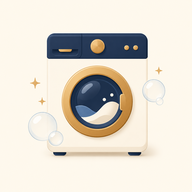
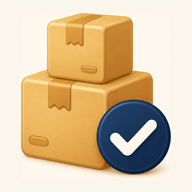
Add files via upload

diff --git a/index.html b/index.html
@@ -4,9 +4,27 @@
 <meta charset="utf-8">
 <meta name="viewport" content="width=device-width,initial-scale=1,viewport-fit=cover">
 <meta name="theme-color" content="#113D6C">
-<title>PLP Stock — เช็คสต๊อก</title>
+<title>Stock PLP — เช็คสต๊อก</title>
 <link rel="manifest" href="manifest.json">
-<link rel="apple-touch-icon" href="icon-192.png">
+<link rel="icon" type="image/png" sizes="32x32" href="favicon-32.png">
+<link rel="apple-touch-icon" sizes="180x180" href="apple-touch-icon.png">
+<meta name="apple-mobile-web-app-capable" content="yes">
+<meta name="apple-mobile-web-app-status-bar-style" content="black-translucent">
+<meta name="apple-mobile-web-app-title" content="Stock PLP">
+<meta name="mobile-web-app-capable" content="yes">
+<meta name="description" content="เช็คสต๊อก นับของ และทำใบสั่งซื้อ สำหรับร้านสาขาต่างๆ">
+<script>
+window.__pwaPrompt = null;
+window.addEventListener("beforeinstallprompt", function (e) {
+  e.preventDefault();
+  window.__pwaPrompt = e;
+  window.dispatchEvent(new Event("pwa-installable"));
+});
+window.addEventListener("appinstalled", function () {
+  window.__pwaPrompt = null;
+  window.dispatchEvent(new Event("pwa-installed"));
+});
+</script>
 <link href="https://fonts.googleapis.com/css2?family=Kanit:wght@300;400;500;600;700&display=swap" rel="stylesheet">
 <script src="https://www.gstatic.com/firebasejs/10.13.2/firebase-app-compat.js"></script>
 <script src="https://www.gstatic.com/firebasejs/10.13.2/firebase-auth-compat.js"></script>
@@ -85,7 +103,7 @@ input:focus,select:focus,textarea:focus{outline:2px solid var(--gold);outline-of
 
 <script type="text/babel" data-presets="react">
 /* ============================================================
-   PLP STOCK  ·  แอปเช็คสต๊อกหลายร้าน
+   STOCK PLP  ·  แอปเช็คสต๊อกหลายร้าน
    ค่า Firebase อยู่ในไฟล์ firebase-config.js (แยกไว้ต่างหาก)
    >> ห้ามใส่ค่า Firebase ในไฟล์นี้ <<
    อัปเดตแอป = ทับเฉพาะ index.html ค่า config จะไม่หาย
@@ -484,7 +502,12 @@ function App() {
   const [shopId, setShopId] = useState(LS.get("ps_shop") || "");
   const [role, setRole] = useState(LS.get("ps_role") || "staff");
   const [cfg, setCfg] = useState({ ownerPin:"1234" });
-  const [tab, setTab] = useState("stock");
+  const [tab, setTab] = useState(() => {
+    const t = new URLSearchParams(location.search).get("tab");
+    return ["stock","count","order","hist","setup"].includes(t) ? t : "stock";
+  });
+  const [canInstall, setCanInstall] = useState(!!window.__pwaPrompt);
+  const [hideInstall, setHideInstall] = useState(LS.get("ps_hideinstall") === "1");
 
   const [items, setItems] = useState([]);
   const [cats, setCats] = useState(DEFAULT_CATS);
@@ -513,6 +536,27 @@ function App() {
     const m = document.querySelector('meta[name="theme-color"]');
     if (m) m.setAttribute("content", c.head);
   }, [shop]);
+
+  /* ---- ปุ่มติดตั้งแอป ---- */
+  useEffect(() => {
+    const on = () => setCanInstall(true);
+    const off = () => { setCanInstall(false); setHideInstall(true); };
+    window.addEventListener("pwa-installable", on);
+    window.addEventListener("pwa-installed", off);
+    return () => { window.removeEventListener("pwa-installable", on); window.removeEventListener("pwa-installed", off); };
+  }, []);
+
+  const installApp = async () => {
+    const p = window.__pwaPrompt;
+    if (!p) {
+      alert("ติดตั้งเองได้เลย:\n\nAndroid Chrome → เมนู ⋮ → เพิ่มลงในหน้าจอหลัก\niPhone Safari → ปุ่มแชร์ ↑ → Add to Home Screen");
+      return;
+    }
+    p.prompt();
+    await p.userChoice;
+    window.__pwaPrompt = null;
+    setCanInstall(false);
+  };
 
   /* ---- boot ---- */
   useEffect(() => {
@@ -785,7 +829,13 @@ function App() {
     say("ใส่ในรายการสั่งของแล้ว");
   };
 
-  if (booting) return <div className="empty" style={{ paddingTop:120 }}>กำลังโหลด…</div>;
+  if (booting) return (
+    <div style={{ minHeight:"70vh", display:"flex", flexDirection:"column",
+      alignItems:"center", justifyContent:"center", gap:14, padding:24 }}>
+      <img src="logo-wordmark.png" alt="Stock PLP" style={{ width:"78%", maxWidth:300 }} />
+      <div style={{ color:"var(--muted)", fontSize:13 }}>กำลังโหลด…</div>
+    </div>
+  );
 
   const TABS = [
     { k:"stock",  ic:"📦", t:"รายการของ" },
@@ -816,6 +866,19 @@ function App() {
           สาเหตุ: ยังไม่พบไฟล์ <b>firebase-config.js</b> หรือยังไม่ได้ใส่ค่าในไฟล์นั้น
         </div>
       )}
+
+      {canInstall && !hideInstall ? (
+        <div className="card" style={{ margin:"10px 16px 0", padding:"10px 12px", display:"flex", gap:10, alignItems:"center" }}>
+          <span style={{ fontSize:20 }}>📲</span>
+          <div style={{ flex:1, minWidth:0 }}>
+            <div style={{ fontSize:13.5, fontWeight:500 }}>ติดตั้งลงหน้าจอหลัก</div>
+            <div style={{ fontSize:11.5, color:"var(--muted)" }}>เปิดเร็วขึ้น เต็มจอ ไม่มีแถบเบราว์เซอร์</div>
+          </div>
+          <button className="btn press" style={{ padding:"8px 14px", fontSize:13 }} onClick={installApp}>ติดตั้ง</button>
+          <button className="press" onClick={() => { setHideInstall(true); LS.set("ps_hideinstall","1"); }}
+            style={{ width:28, height:28, borderRadius:999, background:"var(--soft)", fontSize:12 }}>✕</button>
+        </div>
+      ) : null}
 
       {loadingShop ? <div className="empty">กำลังโหลด…</div> : null}
 
@@ -894,7 +957,7 @@ function App() {
             await saveShops(next); setShopId(next.length ? next[0].id : ""); setSheet(null);
           }} />}
 
-      {sheet && sheet.type === "help" && <HelpSheet isOwner={isOwner} onClose={() => setSheet(null)} />}
+      {sheet && sheet.type === "help" && <HelpSheet isOwner={isOwner} onInstall={installApp} onClose={() => setSheet(null)} />}
 
       {toast ? (
         <div style={{ position:"fixed", bottom:94, left:0, right:0, display:"flex", justifyContent:"center", zIndex:70 }}>
@@ -912,7 +975,7 @@ function Header({ shop, shops, logos, setShopId, isOwner, onRole, onHelp, onUndo
     <div className="hdr">
       <div className="row" style={{ gap:6 }}>
         <div style={{ flex:1, minWidth:0 }}>
-          <div style={{ fontSize:11, opacity:.72, letterSpacing:1 }}>PLP STOCK</div>
+          <div style={{ fontSize:11, opacity:.72, letterSpacing:1 }}>STOCK PLP</div>
           <div className="row" style={{ gap:8 }}>
             {shop && logoOf(logos, shop.id)
               ? <img src={logoOf(logos, shop.id)} alt=""
@@ -1823,7 +1886,7 @@ function ShopSheet({ shop, shops, logo, onClose, onSave, onDelete }) {
 }
 
 /* ---------- Sheet: วิธีใช้ ---------- */
-function HelpSheet({ onClose, isOwner }) {
+function HelpSheet({ onClose, isOwner, onInstall }) {
   const [open, setOpen] = useState("start");
   const SEC = [
     { k:"start", t:"🚀 ใช้ยังไง (อ่านอันนี้ก่อน)", body:[
@@ -1894,6 +1957,9 @@ function HelpSheet({ onClose, isOwner }) {
           </div>
         ))}
       </div>
+      <button className="btn ghost press" style={{ width:"100%", marginTop:12 }} onClick={onInstall}>
+        📲 ติดตั้งลงหน้าจอหลัก
+      </button>
       <div style={{ fontSize:12, color:"var(--muted)", textAlign:"center", marginTop:16, lineHeight:1.7 }}>
         {isOwner ? "👑 ตอนนี้อยู่ในโหมดเจ้าของ" : "👤 ตอนนี้อยู่ในโหมดพนักงาน"}<br/>
         ข้อมูลซิงก์อัตโนมัติทุกเครื่องที่เปิดลิงก์เดียวกัน

diff --git a/sw.js b/sw.js
@@ -1,18 +1,29 @@
-const CACHE = 'plp-stock-v8';
-const CORE = ['./', './index.html', './manifest.json', './icon-192.png', './bg-pattern.png', './hdr-banner.jpg', './empty-box.jpg'];
+const CACHE = 'plp-stock-v10';
+const CORE = ['./', './index.html', './manifest.json', './firebase-config.js', './icon-192.png'];
+
 self.addEventListener('install', e => {
-  e.waitUntil(caches.open(CACHE).then(c => c.addAll(CORE)).then(() => self.skipWaiting()));
+  e.waitUntil(
+    caches.open(CACHE)
+      .then(c => Promise.all(CORE.map(u => c.add(u).catch(() => {}))))
+      .then(() => self.skipWaiting())
+  );
 });
 self.addEventListener('activate', e => {
-  e.waitUntil(caches.keys().then(ks => Promise.all(ks.filter(k => k !== CACHE).map(k => caches.delete(k)))).then(() => self.clients.claim()));
+  e.waitUntil(
+    caches.keys()
+      .then(ks => Promise.all(ks.filter(k => k !== CACHE).map(k => caches.delete(k))))
+      .then(() => self.clients.claim())
+  );
 });
 self.addEventListener('fetch', e => {
   const u = new URL(e.request.url);
   if (e.request.method !== 'GET') return;
   if (u.origin !== location.origin) return;
-  e.respondWith(fetch(e.request).then(r => {
-    const cp = r.clone();
-    caches.open(CACHE).then(c => c.put(e.request, cp));
-    return r;
-  }).catch(() => caches.match(e.request)));
+  e.respondWith(
+    fetch(e.request).then(r => {
+      const cp = r.clone();
+      caches.open(CACHE).then(c => c.put(e.request, cp));
+      return r;
+    }).catch(() => caches.match(e.request).then(m => m || caches.match('./index.html')))
+  );
 });
